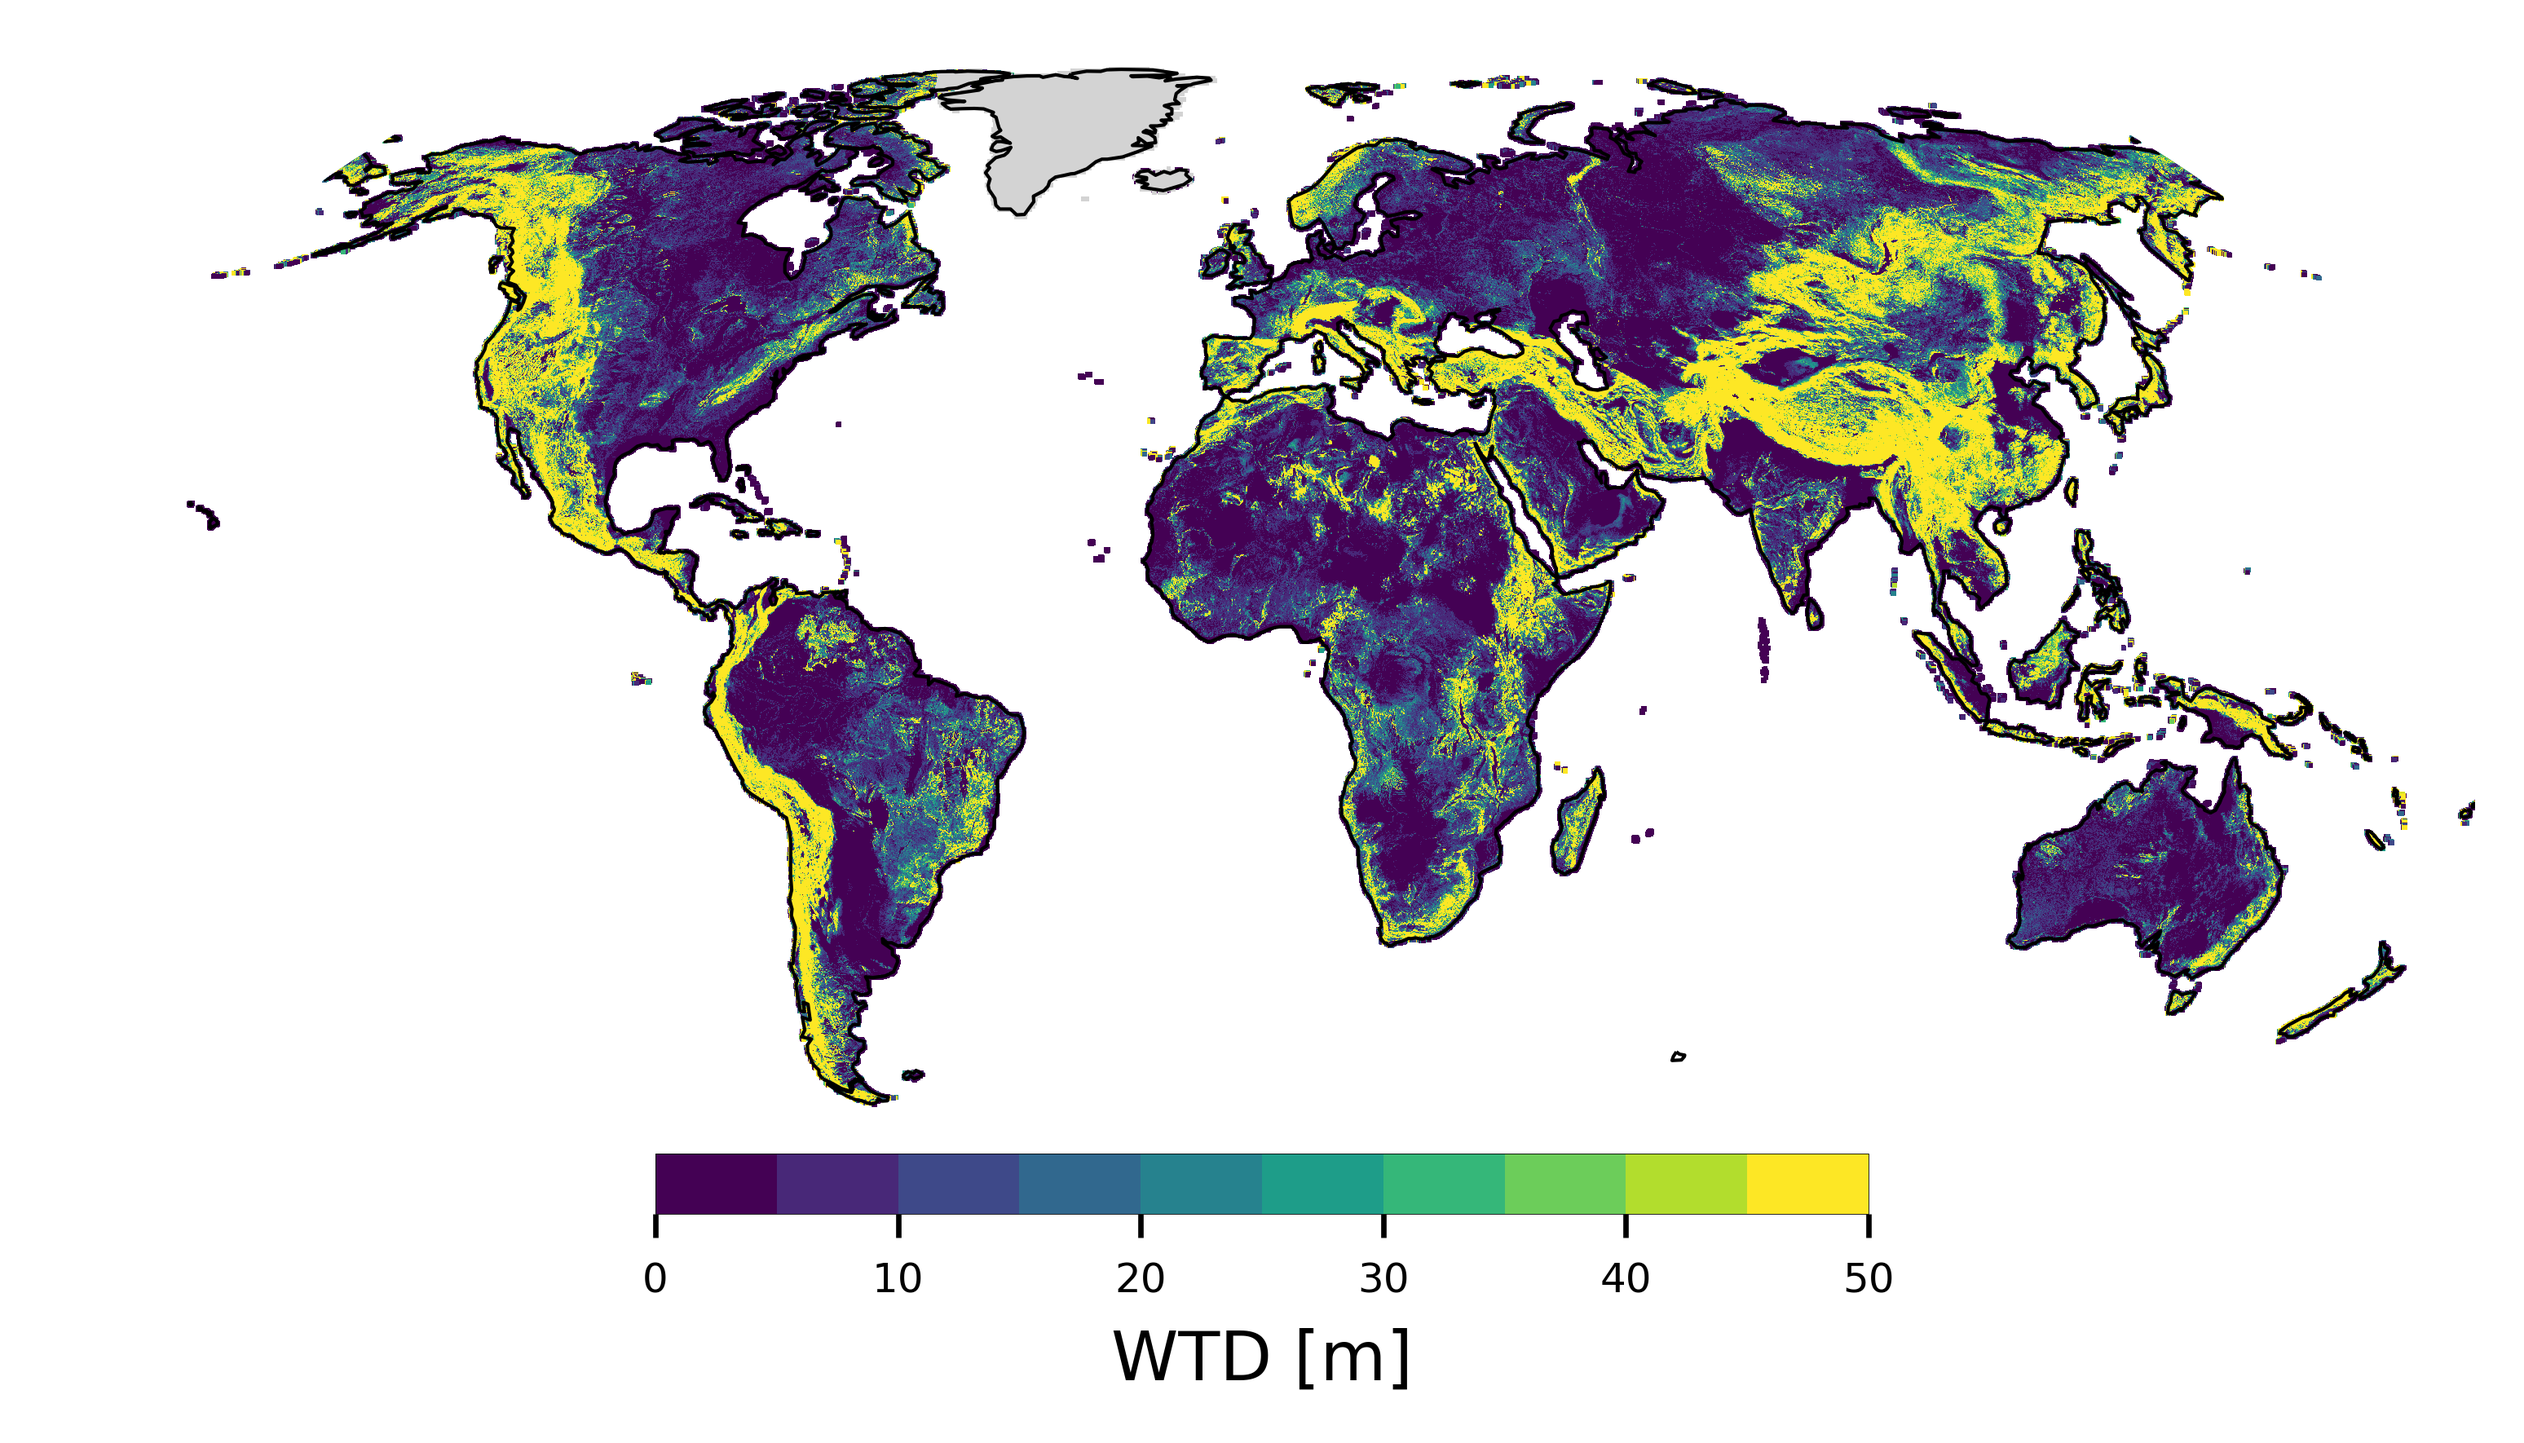
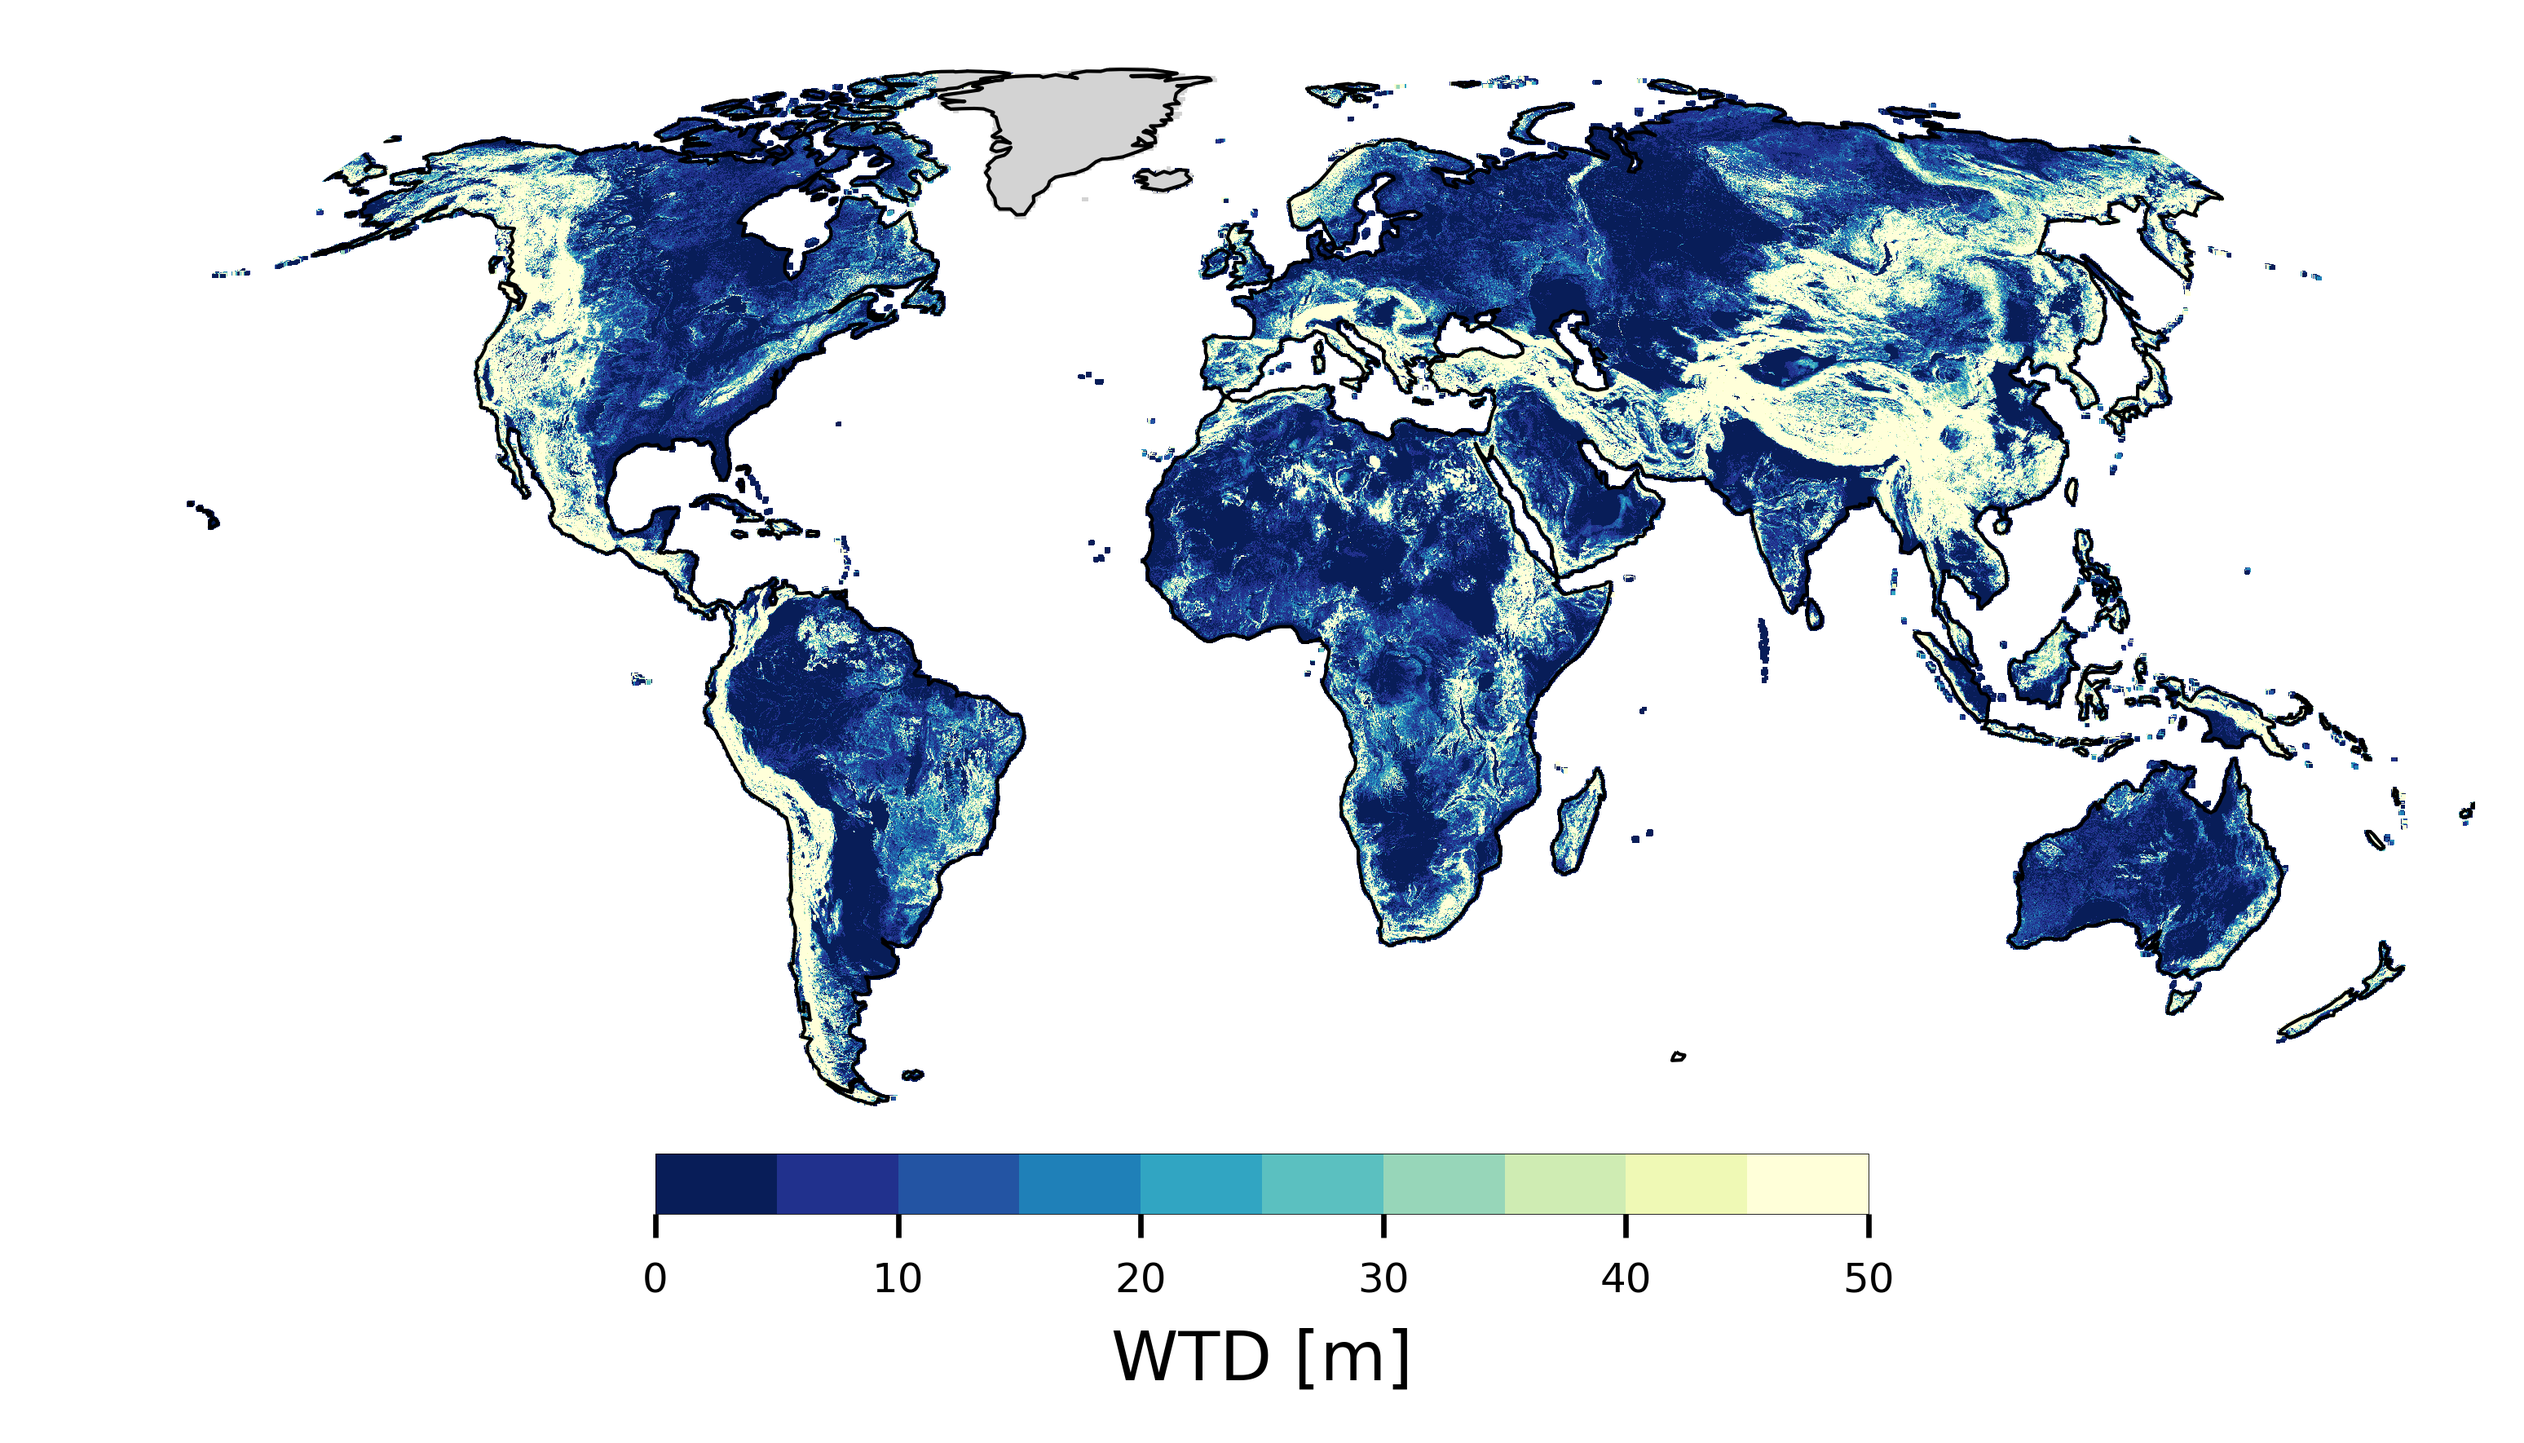
update WTD plot

diff --git a/water_table_depth.py b/water_table_depth.py
@@ -15,15 +15,11 @@ import shapely.geometry as sgeom
 from matplotlib.colors import LinearSegmentedColormap
 from ast import literal_eval
 
-ocean = brewer2mpl.get_map('PuOr', 'Diverging', 10,reverse=False)
-o2 = brewer2mpl.get_map('YlGnBu', 'Sequential', 9, reverse=True)
-#ocean = brewer2mpl.get_map('RdGy', 'Diverging', 8,reverse=True)
-#ocean = brewer2mpl.get_map('Paired', 'Qualitative', 10)
-c = ocean.mpl_colormap
-c2 = o2.mpl_colormap
+o = brewer2mpl.get_map('YlGnBu', 'Sequential', 9, reverse=True)
+c = o.mpl_colormap
 
 # prepare data
-data_path = r"C:\Users\gnann\Documents\Data\G3M\water_table_depth.csv"
+data_path = r"C:\Users\Sebastian\Documents\Data\G3M\water_table_depth.csv"#r"C:\Users\gnann\Documents\Data\G3M\water_table_depth.csv"
 
 df = pd.read_csv(data_path, sep=',')
 var_name = 'WTD'
@@ -40,10 +36,10 @@ bounds = np.linspace(0,50,11)
 customnorm = ml_colors.BoundaryNorm(boundaries=bounds, ncolors=256)
 #norm=customnorm,
 sc = ax.scatter(df['X'], df['Y'], norm=customnorm, transform=ccrs.PlateCarree(),
-                marker='s',s=.5, edgecolors = 'none', c=df['WTD(m)'], cmap='viridis')
+                marker='s',s=.35, edgecolors = 'none', c=df['WTD(m)'], cmap=c)
 
 ax.scatter(df_greenland['lon'], df_greenland['lat'], transform=ccrs.PlateCarree(), norm=customnorm,
-           marker='s', s=.5, edgecolors='none', c='lightgray')
+           marker='s', s=.35, edgecolors='none', c='lightgray')
 
 ax.coastlines(linewidth=0.5)
 #ax.set_clim(0, 1000)
